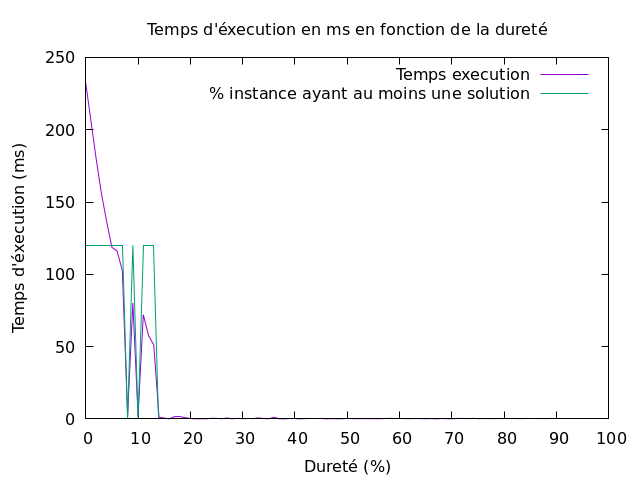
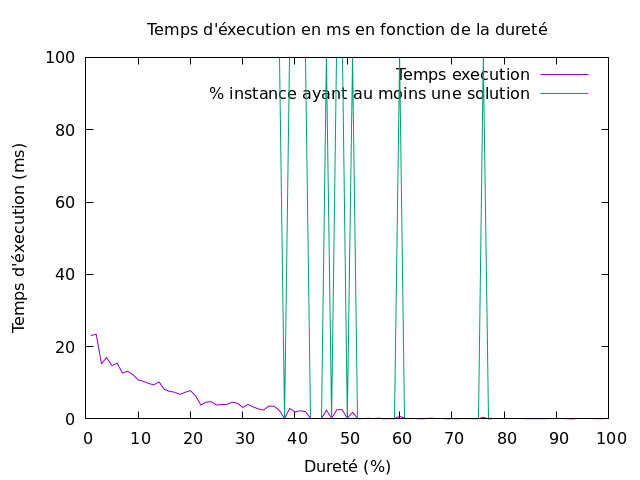
rapport

diff --git a/rapport/rapport.tex b/rapport/rapport.tex
@@ -141,19 +141,23 @@ Le projet est suivi d'un travail d'évaluation complet des effets des différent
 
 
 \section {Construction du benchmark}
-On a commencé par réaliser un script Python, qui ne permet de construire un benchmark avec des valeurs  de (n,c,d,t) différentes, ce qui veut dire, notre script Python utilise le csp generateur pour generer 10 instance de Networ pour un  niveau de dureté (1--100) en les stockant dans des fichiers sous un format bien précis(ex: d1-I7.txt), pour pouvoir aprés automatiser la tache d'execution pour notre APP java. 
-\subsection{}
+On a commencé par réaliser un script Python (disponible sous src/benchmarkgen.py), qui nous permet de construire un benchmark avec des valeurs  de (n,c,d,t) différentes.Ce qui veut dire que notre script Python utilise le csp génerateur pour générer 10 instances de Network pour un  niveau de dureté (de 1 à 100) en les stockant dans des fichiers sous un format bien précis (Voir le fichier ci-dessous), pour pouvoir aprés automatiser la tâche d'éxecution de notre resolveur sur ce benchmark. 
+
+\lstinputlisting{img/example-benchmark.txt}
 
 \section{Implementation des optimisations}
+
 Dans notre cas on a pu réaliser deux optimisations : 
+
 \subsection{Forward Cheking}
 
-On a réalisé l'implémentation de l'algorithme Forward Cheking, pour pouvoir remplacer backtrack.
-\subsubsection{Resultats du Forward Cheking }
-On a pu constaté en variant les differents Valeur pour generer un réseau de contrainte aléatoire et sur un niveau de dureté de 1 à 100. L'algo du forward cheking permet en premier lieu de resoudre les réseaux de grande taille en fonction de (n,c,d,t).
+On a réalisé l'implémentation de l'algorithme Forward Cheking, pour pouvoir remplacer le classique backtrack.
 
-Concernant le graphe obtenu pour une execution de réseaux de contrainte pour des niveaux de dureté de 1 à 100, on a calculé le temps moyen de 5 execution par instance, on a obtenu : un graph avec un temps élevé, c'est du à l'algo du forward cheking (plus de tuples avec plus de contraintes = plus de temps). Concernant la phase de transition, on remarque bien un pic pour le temps moyen par dureté
-Ce qui montre le graphe  suivant : (n = 35, c=249, d = 17 et le t est calculé)
+\subsubsection{Resultats du Forward Cheking }
+
+On a pu constaté en variant les differentes valeurs pour générer un réseau de contrainte aléatoire et sur un niveau de dureté de 1 à 100. L'algo du forward cheking permet la résolution des réseaux de grandes tailles que le classique backtrack ne permet de résoudre (temps d'éxecution très long).
+
+Concernant le graphe obtenu pour une éxecution des réseaux de contraintes pour des niveaux de dureté de 1 à 100, on a calculé le temps moyen de 5 executions par instance, on a obtenu : un graph avec un temps élevé pour les dureté de 1 à 10 environ. C'est dû à l'algo du forward cheking (plus de tuples avec plus de contraintes = plus de temps). Concernant la phase de transition, on remarque bien un pic pour le temps moyen par dureté. Ce qui montre le graphe  suivant : (n = 35, c=249, d = 17 et le t est calculé)
 
 \includegraphics{img/FC.png}
 

diff --git a/src/csp/App.java b/src/csp/App.java
@@ -34,7 +34,7 @@ public class App {
 
         for (int i = 0; i < nb_test; i++) {
             startCpuTime = thread.getCurrentThreadCpuTime();
-            result = (csp.searchSolution() != null);
+            result = (csp.searchSolutionFC() != null);
             temps.add(thread.getCurrentThreadCpuTime() - startCpuTime);
         }
         double avg = temps.stream()
@@ -74,7 +74,7 @@ public class App {
                 somme += (double)r.get(0);
                 nb_true += ((int)r.get(1))==0?0:1;
             }
-            System.out.println(d+" "+somme/instance_max+" "+nb_true/instance_max*1000);
+            System.out.println(d+" "+somme/instance_max+" "+nb_true/instance_max*100);
         }
     }
 }   
